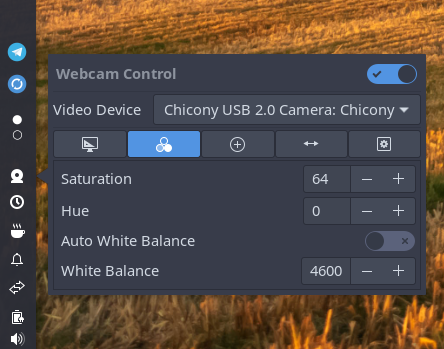
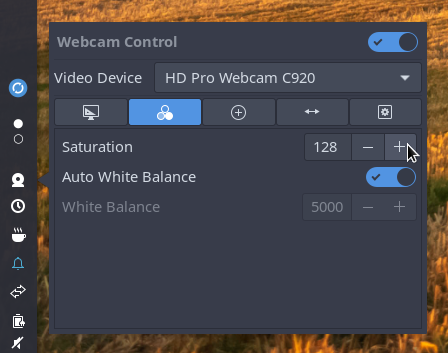
docs: update images in readme

diff --git a/README.md b/README.md
@@ -28,7 +28,7 @@ sudo dpkg -i budgie-webcam-applet_<version>_amd64.deb
 
 Use the video device selector to choose which webcam or video device to control. The applet automatically lists any devices with adjustable controls.
 
-![Applet Exposure Controls](./images/Exposure.png)
+![Applet Device Selection](./images/DeviceSelection.png)
 
 
 ### Controls
